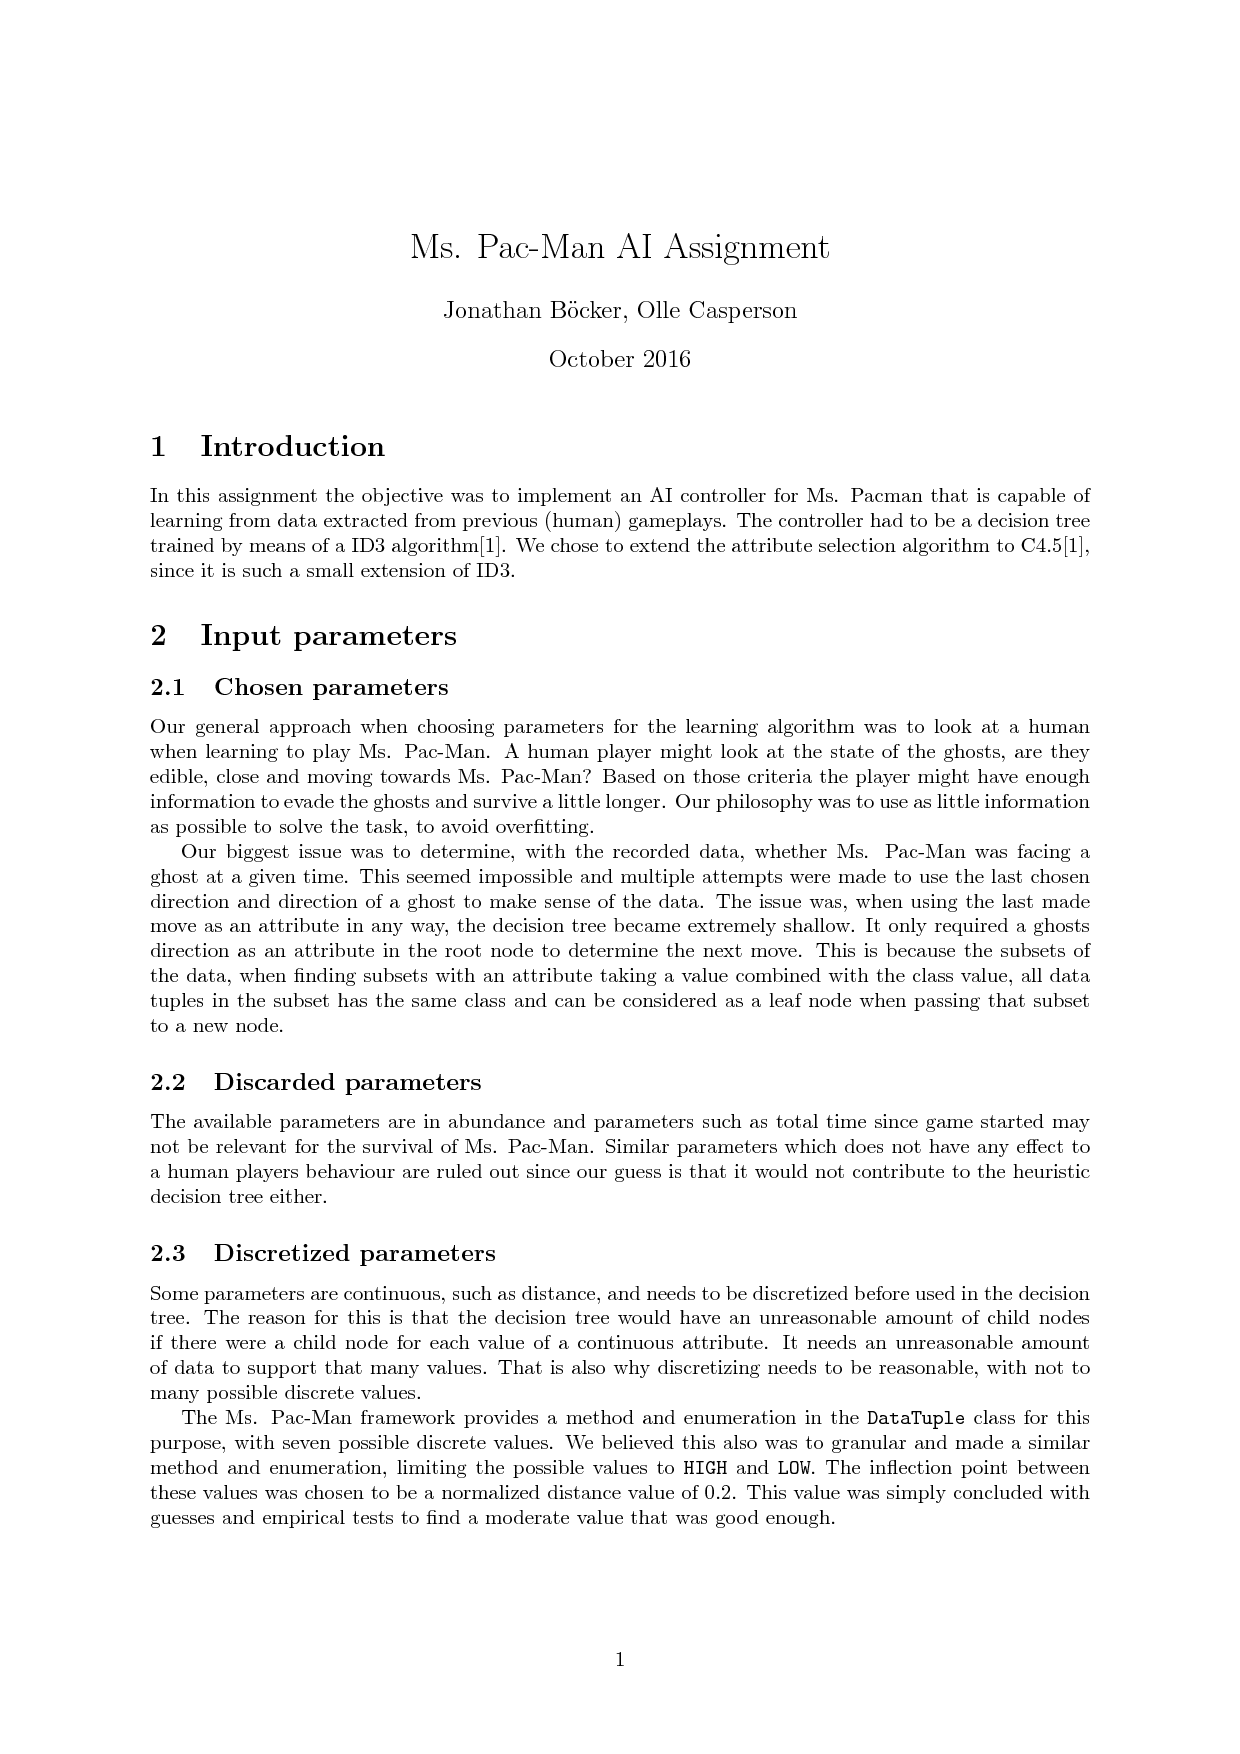
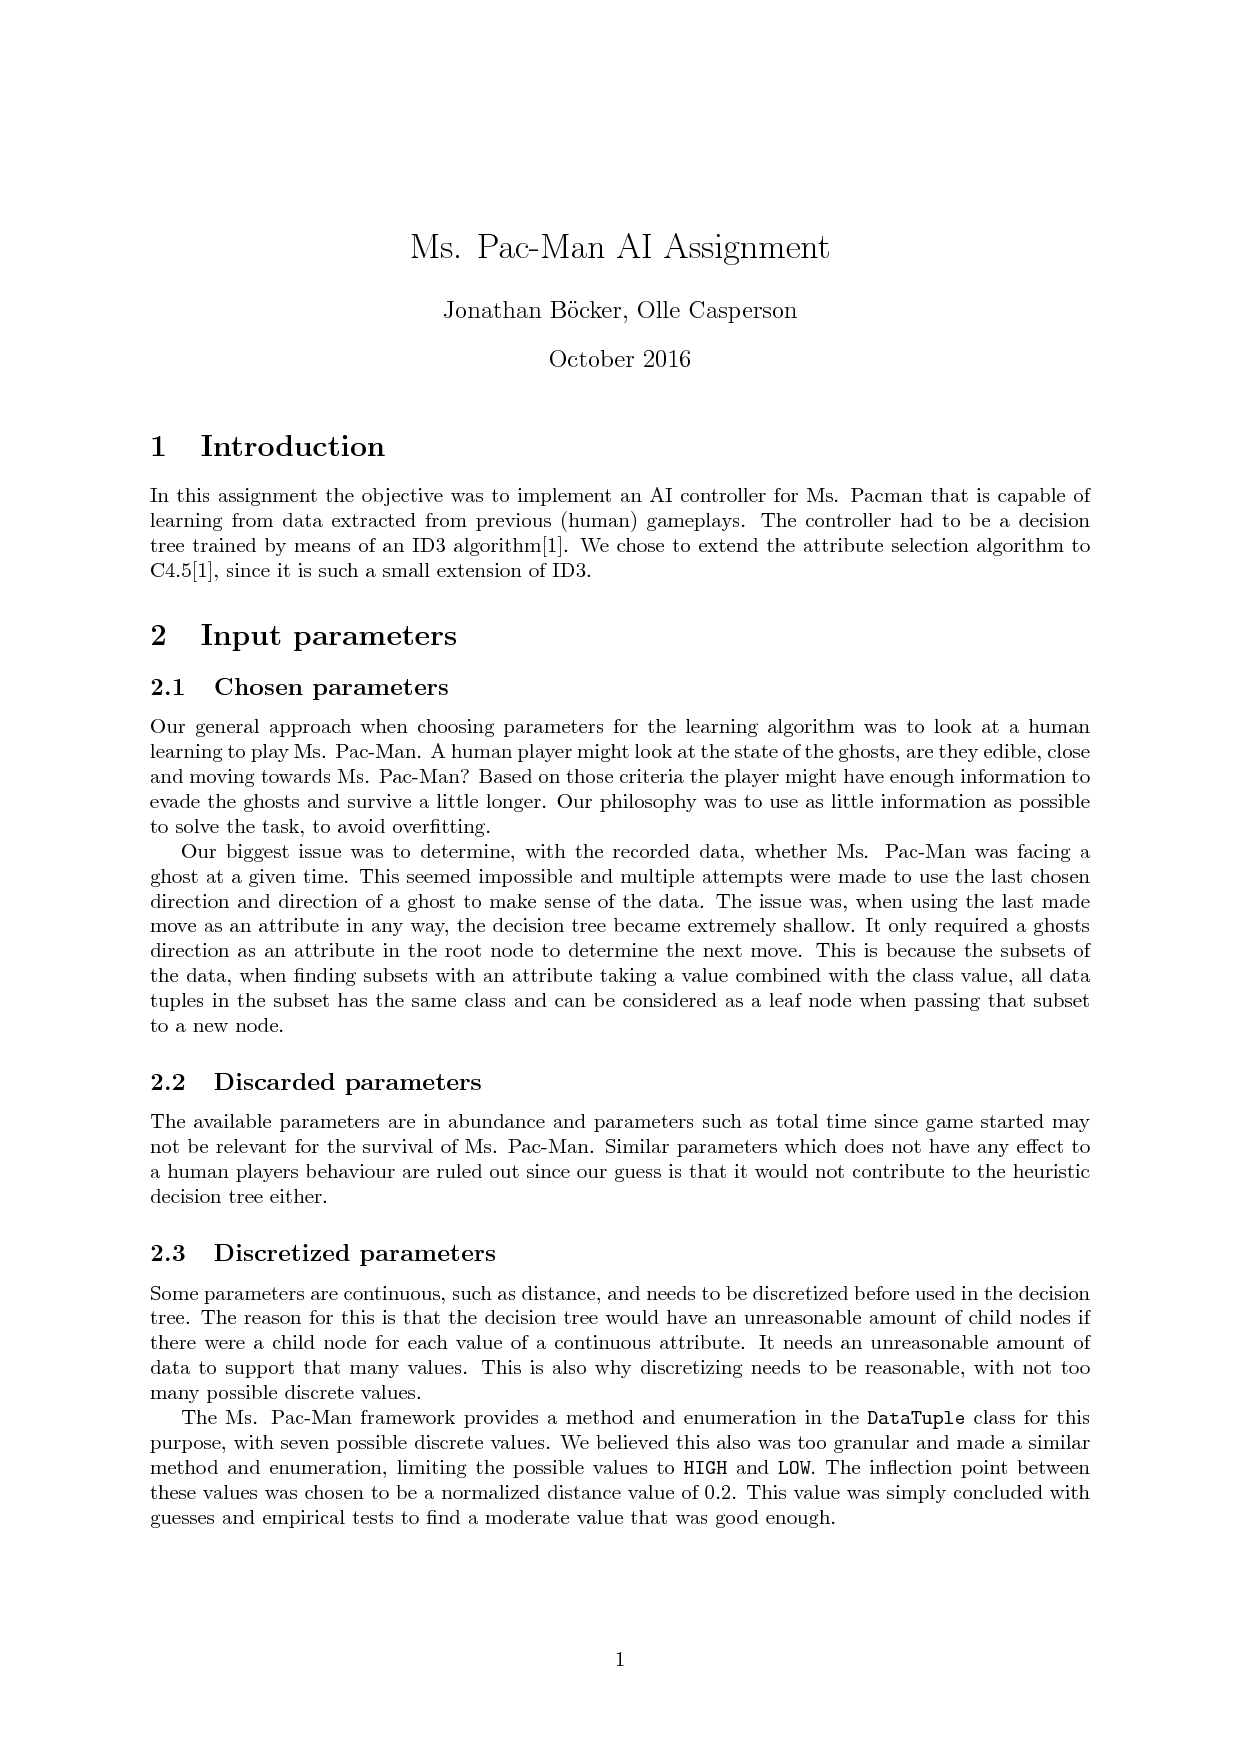
pacman paper unt README

Changed region(s): [[0.1226, 0.7389, 0.8887, 0.8312], [0.1226, 0.2771, 0.8581, 0.3387], [0.1226, 0.4002, 0.8887, 0.4926]]

diff --git a/assignment_2/PacMan_assignment.tex b/assignment_2/PacMan_assignment.tex
@@ -276,6 +276,36 @@ private void verifyData(LinkedList<DataTuple> dataList) {
 \section{Conclusions}
 There are of course several approaches that could have been taken to the different subproblems of this assignment. Some requirements was mentioned in the specification but in most cases it didn't specify exactly with what means and methods the requirements should be filled. For example other parameters could have been chosen for the AI-controller to make its decision from. Though we already have elaborated our method of choosing parameters previously in this report it should be mentioned that other ways could have been better. Maybe other parameters, in combination, would make a better AI-player.
 
+We wish we had the time and capacity to implement unsupervised machine learning to see which attributes were reasonable to include, as we surely would be surprised of the outcome. We would probably research unsupervised learning to gain more understanding of hidden patterns in the attributes if we would do this assignment again.
+
+The ID3/C4.5 decision tree algorithm alone is perhaps not the optimal Ms. Pac-Man algorithm, but it was very fast to implement and might be well suited for other problem domains. The resulting decision tree was easy to understand and a bit unsuspected(Listing \ref{treeprint}) since the top attributes would probably be chosen differently if chosen by hand.
+
+\begin{lstlisting}[caption=Partial console print of decision tree, label={treeprint}]
+ROOT
+|-> "pinkyDir" = DOWN:
+|   |-> "isPinkyEdible" = true:
+|   |   |-> "isSueEdible" = true:
+|   |   |   |-> "isBlinkyEdible" = true:
+|   |   |   |   |-> "pinkyDist" = HIGH:
+|   |   |   |   |   |-> "inkyDist" = HIGH:
+|   |   |   |   |   |     -> Return NEUTRAL
+|   |   |   |   |   |-> "inkyDist" = LOW:
+|   |   |   |   |       |-> "blinkyDir" = DOWN:
+|   |   |   |   |       |   |-> "inkyDir" = DOWN:
+|   |   |   |   |       |   |   |-> "blinkyDist" = HIGH:
+|   |   |   |   |       |   |   |   |-> "sueDir" = DOWN:
+|   |   |   |   |       |   |   |   |   |-> "isInkyEdible" = true:
+|   |   |   |   |       |   |   |   |   |   |-> "sueDist" = HIGH:
+|   |   |   |   |       |   |   |   |   |   |     |-> Return DOWN
+
+...
+
+|                       |-> "blinkyDir" = NEUTRAL:
+|                             |-> Return NEUTRAL
+|-> "pinkyDir" = NEUTRAL:
+      |-> Return NEUTRAL
+\end{lstlisting}}
+
 \bibliographystyle{plain}
 \bibliography{references}
 \end{document}

diff --git a/assignment_2/README.md b/assignment_2/README.md
@@ -1,3 +1,5 @@
 ![](images/image-0.png)
 ![](images/image-1.png)
 ![](images/image-2.png)
+![](images/image-3.png)
+![](images/image-4.png)
